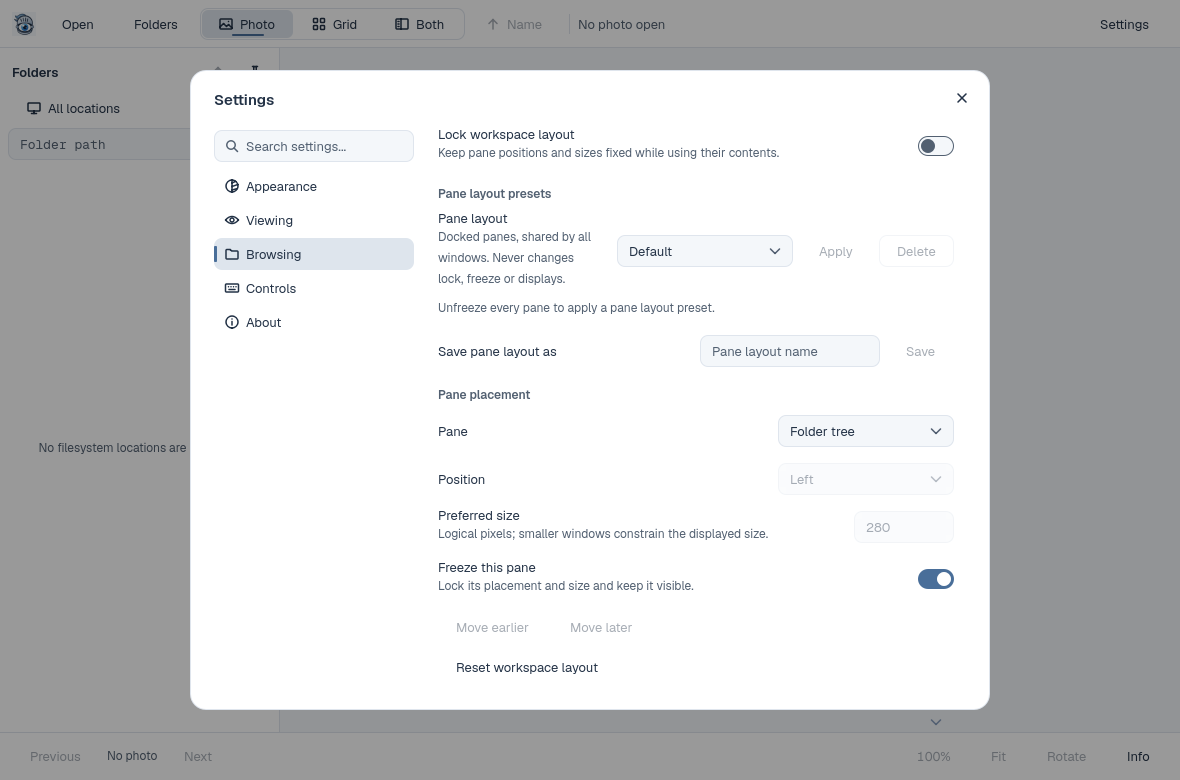
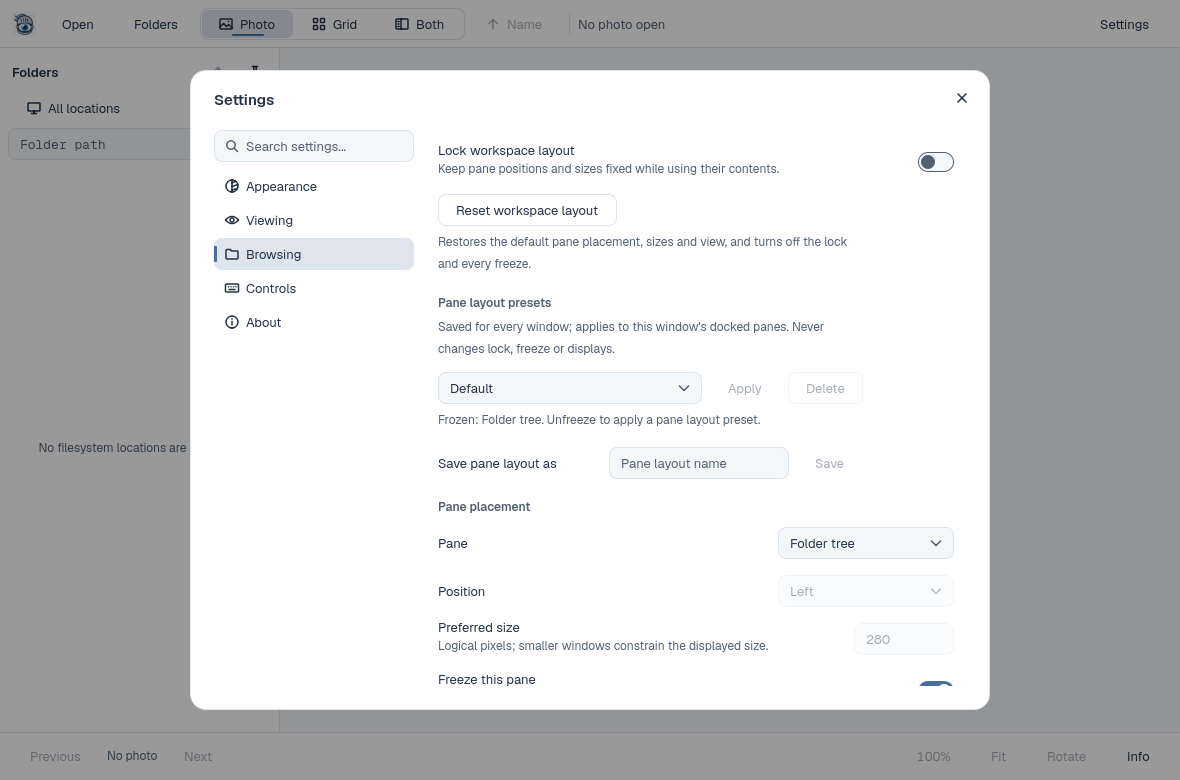
docs(handoff): STACK-F049-PRESETS review round 1 fixes, evidence and design note
Settings captures (dark/light, 560/1180 px, plus one while saving),
fail-before/pass-after output, targeted, repeated and full-suite results.

Claude-Session: https://claude.ai/code/session_01Pz8behqu31ymcicmpisLUg

diff --git a/docs/handoff/STACK-F049-PRESETS-HANDOFF.md b/docs/handoff/STACK-F049-PRESETS-HANDOFF.md
@@ -7,7 +7,7 @@ Contract: docs/handoff/LEAD-WRAPUP-2026-10-22.md (first frozen resolution) and L
 | --- | --- |
 | Branch | `claude/stack-f049-presets` |
 | Base SHA | `afeac1a5d5b1da088d7b35447a933a2f64400f49` (`origin/main`, "chore(lead): freeze Phase 0 cycle 1 contracts") |
-| Tip SHA | the commit that updates this handoff; code tip: the preceding test-fix commit (review diff: `git diff afeac1a <tip>`) |
+| Tip SHA | the commit that updates this handoff. Review round 1 fixes: see "Review round 1 fixes" below (re-review diff: `git diff 4770e99 <tip>`, after the `origin/main` merge `380cf7b`) |
 | Review | fresh session, `docs/verification/STACK-F049-PRESETS-REVIEW.md` on `claude/review-stack-f049-presets` |
 
 ## What changed, by contract clause
@@ -17,7 +17,7 @@ Contract: docs/handoff/LEAD-WRAPUP-2026-10-22.md (first frozen resolution) and L
    - `savePreset` stores no `frozen` flags (the old code stored them and only stripped them on apply) and never `locked`.
    - `persistWhole()` no longer calls `updateSettings` directly. It goes through the layout's own value-owned `saveWithRetry` channel (`layout/<slot>/_preset/...`), the same one `MonitorCustomization` cancels and reloads. A busy file now queues the write after earlier edits and shows "Saving layout preferences…". It used to fail silently while the session showed the preset.
    - `MonitorCustomization::commit`: when a dock transaction finishes after pane edits made while it was saving (a layout preset, for example), the committed transaction still wins, because those pending writes are cancelled and the saved dock restored. The coordinator now reports this ("Pane layout changes made while saving were replaced by the saved monitor layout.") instead of dropping the edit silently. If the pane write lands first, the coordinator refuses as before ("The pane layout changed while saving…"). Either way the runtime equals `layouts[slot]` afterwards; the test checks both orders.
-   - Settings disables Apply, the lock switch and the freeze switch while a display transaction is saving (`monitorCustomization.saving`). Apply shows the reason in visible text (and as `Accessible.description`): locked, frozen, or saving.
+   - Settings disables Apply, the lock switch, the freeze switch and Reset while a display transaction is saving (`monitorCustomization.saving`). Each shows its own reason in visible text: Apply below the preset row (and as `Accessible.description`: locked, frozen with the pane names, or saving), the switches in their descriptions, Reset in its note. The `layout-preset-next` command waits the same way (round 1).
 2. **Per-slot placement isolation.** Applying a preset touches only `layouts[<this slot>]`. Other slots' layouts, lock and freeze, and the coordinator's per-slot routes and presets are unchanged. A deferred preset write that completes after the window changed slot reports nothing into the new slot.
 3. **`snapshotExtras_` and unknown or newer data survive `persistWhole()`.**
    - Known fields merge into the stored layout. Unknown root, pane and center fields and unknown pane ids stay.
@@ -26,14 +26,14 @@ Contract: docs/handoff/LEAD-WRAPUP-2026-10-22.md (first frozen resolution) and L
    - At runtime, unknown pane and center fields from a restored snapshot survive an apply.
    - Preset records: a newer-version record is never overwritten ("A newer version of Glancelot saved…") and is not applied. Replacing a current record keeps its unknown fields. A non-object `layoutPresets` value is preserved: saving is refused with feedback, and delete finds nothing.
 4. **Distinct names and scopes.**
-   - Settings > Browsing shows a "Pane layout presets" heading and a "Pane layout" row ("Docked panes, shared by all windows. Never changes lock, freeze or displays."), then "Save pane layout as" and a separate "Pane placement" heading. The display workspace presets stay behind "Displays and workspaces…" (per window slot).
-   - Names cannot collide, case-insensitively, in either direction. `PaneLayout::savePreset` refuses a name used by a display workspace preset in any slot. `MonitorCustomization::savePreset`/`renamePreset` refuse a pane layout preset name, built-ins included.
-   - MonitorSettings.qml is outside this packet's grant, so its heading is renamed in STACK-F054-COVERAGE ("Display workspace presets for this window", plus a sentence on scope).
+   - Settings > Browsing shows a "Pane layout presets" heading, the scope sentence "Saved for every window; applies to this window's docked panes. Never changes lock, freeze or displays.", the preset controls stacked under it, then "Save pane layout as" and a separate "Pane placement" heading (round 1 layout). The display workspace presets stay behind "Displays and workspaces…" (per window slot).
+   - New names cannot collide, case-insensitively, in either direction. `PaneLayout::savePreset` refuses a new name used by a display workspace preset in any slot, including one still queued in this process. `MonitorCustomization::savePreset`/`renamePreset` refuse a new or changed name that is a pane layout preset name, built-ins included, and the queued write refuses it again if another process saved that pane layout preset meanwhile. An unchanged legacy name can still be updated (round 1).
+   - MonitorSettings.qml (lead decision, round 1: this packet owns the wording; F054 does not touch it): the heading is "Display workspace presets for this window", and the note starts "Saved for this window only." and says pane layout presets in Settings are saved for every window.
 5. **Navigator follows `paneAvailable("preview")`.** In `ui/Main.qml`, the zoom navigator's `visible` uses `paneAvailable("preview")`, and its `parent` follows the detached preview host's `paneContent`. It shows in, and moves with, a detached preview window and returns on re-dock.
 
 ## Files
 
-`src/app/pane_layout.cpp`, `src/app/monitor_customization.cpp`, `ui/SettingsDialog.qml` (Browsing page: preset block and the two switches), `tests/pane_layout_tests.cpp`, `tests/monitor_customization_tests.cpp`, new `tests/layout_presets_ui_tests.cpp`, `docs/verification/STACK-F049-PRESETS/*.png`.
+`src/app/pane_layout.cpp`, `src/app/monitor_customization.cpp`, `ui/SettingsDialog.qml` (Browsing page: workspace layout group, preset block and the two switches), `ui/MonitorSettings.qml` (presets heading and scope note only, round 1), `ui/Main.qml` (navigator block; `layout-preset-next` block and its outcome watcher, round 1), `tests/pane_layout_tests.cpp`, `tests/monitor_customization_tests.cpp`, new `tests/layout_presets_ui_tests.cpp`, `docs/verification/STACK-F049-PRESETS/*.png`.
 
 The lead should look at two edits outside the packet's file list. Each is in its own commit so it can be taken or dropped:
 - `9c28226` changes `ui/Main.qml`: the navigator block only (2 lines and a comment, around old line 1293). It is far from EN-06's routing region (655–867) and from the merge leftovers at 1327 and 2051. The contract's navigator clause cannot be met without it.
@@ -173,10 +173,189 @@ The ui-design-skills (application-interface-design, layout, spacing, typography,
 - A disabled action always has its reason beside it in muted text, not only a greyed button. The description is two short sentences that fit three lines at 560 px.
 - The compact (560 px) capture has no horizontal overflow; controls keep their widths and the description wraps.
 - Keyboard and screen-reader names: the combo is "Pane layout preset" and the field "Name for the new pane layout preset". Apply's `Accessible.description` carries the blocked reason.
-- Open item for the reviewer: the preset row's description column wraps to three or four lines at wide sizes, because the trailing combo and two buttons take the width. It is acceptable, but a stacked layout (controls under the label) would read better if the row grows.
+- (Superseded by round 1: the controls now stack under the text.) Open item for the reviewer: the preset row's description column wraps to three or four lines at wide sizes, because the trailing combo and two buttons take the width. It is acceptable, but a stacked layout (controls under the label) would read better if the row grows.
 
 ## Unverified
 
 - The Windows gate and Docker were not run (no Docker in this session); the authoritative `lead-windows-gate` decides.
 - No physical or multi-monitor hardware: the detached-preview navigator test uses the offscreen platform's single virtual screen.
 - No native RHI rendering.
+
+## Review round 1 fixes (fix session S10, October 23, 2026)
+
+Written for: the lead and the next fresh reviewer. The original implementer was unavailable; fix session S10 made these changes on the same branch.
+
+| | |
+| --- | --- |
+| Starting tip | `4770e99`, then `git merge --no-edit origin/main` (`f325ef6`) as merge commit `380cf7b` (no conflicts) |
+| Code commit | `0d5afb6` "STACK-F049-PRESETS: review round 1 fixes" |
+| Tip | the commit that adds this section (evidence and handoff only) |
+| Re-review diff | `git diff 380cf7b <tip>` for round 1 only; `git diff afeac1a <tip>` for the whole packet, which also includes main's changes since `afeac1a` |
+
+### What changed, by finding
+
+1. **Refusals are checked against disk** (`tests/pane_layout_tests.cpp`, `presetsObeyLockAndFreezeAuthority`). The test reads `layouts` right before each refused apply (locked, then frozen) and `QCOMPARE`s it with what is on disk afterwards. `Q_UNUSED(layoutBefore)` is gone.
+2. **Only a new or changed name is refused.**
+   - `PaneLayout::savePreset` skips the display-name check when `layoutPresets` already holds that exact name, because that is an update.
+   - `MonitorCustomization::savePreset` and `renamePreset` use `layoutPresetNameTaken(id, name)`, which skips the check when the record keeps its current name. "Update snapshot" (`ui/MonitorSettings.qml`) therefore works again for a display preset named "Review", "Default", "Browse", or the name of a user pane layout preset, from before this packet.
+   - The write-time check (item 5) skips a name that is unchanged from the stored record.
+3. **Scope copy** (`ui/SettingsDialog.qml`): "Saved for every window; applies to this window's docked panes. Never changes lock, freeze or displays." The `MonitorSettings.qml` note now ends the same way in reverse: "…pane layout presets in Settings are saved for every window."
+4. **The outcome shows in the main window.**
+   - `layout-preset-next` (`ui/Main.qml`) now waits while `monitorCustomization.saving`, as Settings' Apply does. It shows "Display preferences are saving. Apply the preset when they finish." and applies nothing. That removes the "Layout: X, then a silent revert" path: a coordinator transaction can only supersede a preset if the transaction started first and was still pending when the preset applied, and the command no longer applies during that window.
+   - A preset whose write had to wait (busy file) now reports how it ended in the main window. `presetSavingFeedback` holds the "Saving layout preferences…" text, and a `Connections` on `paneLayout` shows the next different, non-empty `paneLayout.feedback` (for example "Layout changed for this session; settings could not be saved.") as the split message, then disarms.
+   - `monitor_customization.cpp`: the "replaced" message is composed last and leads. Any other note (the presentation-session note, or the `committed()` or `applyOutput()` text) follows it. Before this fix, the "newer presentation session" branch overwrote it.
+5. **Name checks include queued saves.**
+   - In this process, `PaneLayout::savePreset` overlays the coordinator's pending settings edits (`settings_detail::overlayPendingSettings`) before it checks display preset names. The coordinator registers itself on the layout through a dynamic property, `_glancelotDisplayPresetQueue`, because no shared header changes. The property is cleared when the coordinator is destroyed.
+   - Across processes, the coordinator's queued write re-checks `layoutPresets` on disk when it finally runs. If another window saved a pane layout preset with that new name meanwhile, the write is refused with "A pane layout preset already uses that name. Choose another name." So no collision reaches disk in either order.
+   - The coordinator's edit now clears `*refused` at its start, so running it as a read overlay leaves no stale refusal behind.
+
+Design review (see the note below):
+- The preset controls stack under their text at a measure of 70 average characters.
+- The repeated "Pane layout" row label is gone.
+- The freeze reason names the frozen panes ("Frozen: Folder tree. Unfreeze to apply a pane layout preset.").
+- The lock and freeze switches give their own reason while saving ("Unavailable while display preferences are saving."). The freeze switch also says "Unlock the workspace layout to freeze or unfreeze a pane." when the layout is locked.
+- "Reset workspace layout" moved out of "Pane placement" to sit after the lock switch, with a note saying it also turns off the lock and every freeze. It is disabled while saving, like the lock switch.
+
+Lead decisions applied:
+- The `9c28226` navigator edit is kept.
+- Main.qml changes in round 1 are limited to the `layout-preset-next` block, one property and one `Connections` next to `splitMessageTimer`.
+- `aa2a9a4` (provisional CMake) is untouched, for the lead to re-land.
+- MonitorSettings wording: this packet now owns the heading and scope note only (`objectName`s `monitorPresetHeading`, `monitorPresetScope`, as on the F054 branch). Expect a textual conflict with `claude/stack-f054-coverage` on those two lines, and resolve it to this packet's text.
+- F054 copy: I checked every `ui/` string change in `git diff afeac1a` and found no pure `qsTr` wrap of a string this packet did not introduce or rename, so there was nothing to remove. The existing `"Layout: "` split message in Main.qml stays unwrapped for F054.
+
+### Tests added or changed
+
+- `pane_layout_tests`:
+  - `presetsObeyLockAndFreezeAuthority`: disk comparisons after both refusals.
+  - New `legacyCollidingPresetNameStaysUpdatable`: a legacy "Studio" pane layout preset beside a display preset "Studio" updates and keeps its unknown field; "STUDIO" is still refused and not written.
+- `monitor_customization_tests`:
+  - `legacyCollidingDisplayPresetNameStaysUpdatable`: display presets renamed on disk to "Review" and "studio" (with a pane layout preset "Studio"). Update snapshot and rename-to-self succeed with no feedback. Renaming to "Browse" or "STUDIO" is refused, and the stored names stay as they were.
+  - `layoutPresetNameChecksIncludeQueuedSaves`: a display preset save queued behind a busy file blocks the same pane layout name at once. A pane layout preset written by "another process" while a display save waits makes that queued save fail with feedback, and only the earlier display preset is stored.
+  - `supersededFeedbackSurvivesNewPresentationSession`: a freeze transaction queued, then a preset, then a new presentation session. When the transaction supersedes the preset, the feedback starts with "replaced" and keeps the session note; when the preset lands first, the transaction's refusal is shown. It logs which order ran (here, always "superseded").
+- `layout_presets_ui_tests`:
+  - `settingsPresetRowObeysCanonicalLockAndFreeze`: the freeze reason names "Folder tree". While saving, the lock and freeze switches and Reset are disabled and the switch descriptions say why; afterwards they are enabled again.
+  - New `settingsPresetBlockReadsAtEveryWidth` (560 and 1180 px):
+    - the exact scope copy;
+    - at least 40 characters per line and a width no wider than the measure;
+    - the controls sit below the text;
+    - Reset sits above the preset heading;
+    - the MonitorSettings heading and note text.
+  - New `presetCommandWaitsForDisplaySaveAndReportsOutcome`:
+    - two `layout-preset-next` presses while a display save is pending apply nothing, the cursor stays at -1 and the split message says why;
+    - with the file held busy, a press shows "Layout: Review" and then, about four seconds later, "…settings could not be saved."
+  - `settingsPresetEvidence` now frames the lock, Reset and preset block, and adds one capture while saving.
+
+### Fail before, pass after
+
+The new tests were built against round 1's tests with `src/` and `ui/` at `380cf7b` (`git stash push -- src ui`):
+
+```
+$ QT_QPA_PLATFORM=offscreen ./pane_layout_tests
+FAIL!  : PaneLayoutTests::legacyCollidingPresetNameStaysUpdatable() 'model.savePreset("Studio")' returned FALSE. (A display workspace preset already uses that name. Choose another name.)
+Totals: 17 passed, 1 failed, 0 skipped, 0 blacklisted, 506ms
+$ QT_QPA_PLATFORM=offscreen ./monitor_customization_tests
+FAIL!  : MonitorCustomizationTests::legacyCollidingDisplayPresetNameStaysUpdatable() 'h.customization.savePreset(builtInId,"Review","presentation")' returned FALSE. (A pane layout preset already uses that name. Choose another name.)
+FAIL!  : MonitorCustomizationTests::layoutPresetNameChecksIncludeQueuedSaves() '!h.panes.savePreset("queued")' returned FALSE. ()
+FAIL!  : MonitorCustomizationTests::supersededFeedbackSurvivesNewPresentationSession() 'feedback.startsWith("Pane layout changes made while saving were replaced")&&feedback.contains("newer presentation session")' returned FALSE. (Preferences saved; the newer presentation session was left unchanged.)
+Totals: 33 passed, 3 failed, 0 skipped, 0 blacklisted, 6877ms
+$ QT_QPA_PLATFORM=offscreen QT_QUICK_BACKEND=software ./layout_presets_ui_tests
+FAIL!  : LayoutPresetsUiTests::settingsPresetRowObeysCanonicalLockAndFreeze() 'blocked->property("text").toString().contains("Folder tree")' returned FALSE. (Unfreeze every pane to apply a pane layout preset.)
+FAIL!  : LayoutPresetsUiTests::settingsPresetBlockReadsAtEveryWidth() 'scope' returned FALSE. ()
+FAIL!  : LayoutPresetsUiTests::presetCommandWaitsForDisplaySaveAndReportsOutcome() 'h.window->property("splitMessage").toString().contains("Display preferences are saving")' returned FALSE. ()
+Totals: 3 passed, 3 failed, 1 skipped, 0 blacklisted, 18190ms
+```
+
+Finding 1 (a refusal that writes must fail): `applyPreset` was temporarily mutated to write the preset (`persist("_preset", …)`) before each refusal, one at a time, and then restored:
+
+```
+# write before the lock refusal
+FAIL!  : PaneLayoutTests::presetsObeyLockAndFreezeAuthority() Compared values are not the same
+   Actual   (after["layouts"]): QJsonValue(object, QJsonObject({"1":{"center":{},"locked":true,"panes":{"filmstrip":{"extent":112,"order":0,"region":"bottom","visible":true}, … "topbar":{"extent":48,"order":0,"region":"top","visible":false}, …},"version":1}}))
+   Expected (layoutBefore)    : QJsonValue(object, QJsonObject({"1":{"locked":true,"panes":{"tree":{"frozen":true,"visible":true}},"version":1}}))
+   Loc: [/home/user/glancelot/tests/pane_layout_tests.cpp(295)]
+Totals: 2 passed, 1 failed, 0 skipped, 0 blacklisted, 10ms
+# write before the freeze refusal
+FAIL!  : PaneLayoutTests::presetsObeyLockAndFreezeAuthority() Compared values are not the same
+   Loc: [/home/user/glancelot/tests/pane_layout_tests.cpp(299)]
+Totals: 2 passed, 1 failed, 0 skipped, 0 blacklisted, 7ms
+```
+
+After the fixes (`0d5afb6`), targeted:
+
+```
+$ QT_QPA_PLATFORM=offscreen ctest --test-dir build-claude-stack-f049-presets -R "pane_layout|monitor_customization|layout_presets_ui|ui_settings|input_ui" --output-on-failure
+1/6 Test #10: pane_layout ......................   Passed    0.50 sec
+2/6 Test #13: input_ui .........................***Failed   68.40 sec
+FAIL!  : InputUiTests::treeRowAndPathBarMenusOpenAndMatch() 'menuOpen(rowMenu)' returned FALSE. ()
+3/6 Test #22: ui_settings ......................   Passed    0.60 sec
+4/6 Test #42: monitor_customization ............   Passed    7.29 sec
+5/6 Test #43: monitor_customization_ui .........   Passed   15.62 sec
+6/6 Test #44: layout_presets_ui ................   Passed    8.37 sec
+83% tests passed, 1 tests failed out of 6
+Total Test time (real) = 100.79 sec
+```
+
+`input_ui`'s one failure is the documented baseline (`treeRowAndPathBarMenusOpenAndMatch`). Its preset case passed: `PASS   : InputUiTests::layoutPresetsFromCommandAndSettings()`, `Totals: 31 passed, 1 failed, 1 skipped`.
+
+The two timer-ordered suites, repeated:
+
+```
+$ QT_QPA_PLATFORM=offscreen ctest --test-dir build-claude-stack-f049-presets -R "^(monitor_customization|layout_presets_ui)$" --repeat until-fail:10 --output-on-failure
+    Test #42: monitor_customization ............   Passed    7.09 sec   (runs 1-9: 6.97-7.09 sec, all Passed)
+1/2 Test #42: monitor_customization ............   Passed    6.98 sec
+    Test #44: layout_presets_ui ................   Passed    8.16 sec   (runs 1-9: 8.08-8.30 sec, all Passed)
+2/2 Test #44: layout_presets_ui ................   Passed    8.21 sec
+100% tests passed, 0 tests failed out of 2
+Total Test time (real) = 152.14 sec
+```
+
+Order log from one direct run: `order 0: transaction superseded the preset`, `order 1: preset landed first; transaction refused`, and `transaction superseded the preset: Pane layout changes made while saving were replaced by the saved monitor layout. Preferences saved; the newer presentation session was left unchanged.`
+
+Full offscreen suite, once, at `0d5afb6`:
+
+```
+$ QT_QPA_PLATFORM=offscreen ctest --test-dir build-claude-stack-f049-presets --output-on-failure
+10/44 Test #10: pane_layout ......................   Passed    0.52 sec
+12/44 Test #12: folder_grid ......................***Failed  158.72 sec
+FAIL!  : GridUiTests::externalRenameAndDeleteRefreshKeepSelection() Compared lists have different sizes.
+13/44 Test #13: input_ui .........................***Failed   68.35 sec
+FAIL!  : InputUiTests::treeRowAndPathBarMenusOpenAndMatch() 'menuOpen(rowMenu)' returned FALSE. ()
+16/44 Test #16: directory_model ..................***Failed    4.93 sec
+FAIL!  : DirectoryModelTests::selectionSurvivesRelistSortAndDropsRemovedKeys() Compared lists have different sizes.
+22/44 Test #22: ui_settings ......................   Passed    0.53 sec
+42/44 Test #42: monitor_customization ............   Passed    6.96 sec
+43/44 Test #43: monitor_customization_ui .........   Passed   15.21 sec
+44/44 Test #44: layout_presets_ui ................   Passed    8.20 sec
+93% tests passed, 3 tests failed out of 44
+Total Test time (real) = 449.17 sec
+```
+
+The other 37 tests passed. The three failures are exactly the baseline functions that docs/handoff/PHASE0-CYCLE1-2026-10-22.md lists for the conda-forge Qt. `folder_grid` and `input_ui` are budget tests; the authoritative gate decides.
+
+### Environment
+
+Same as the original handoff: Ubuntu 24.04, 4 vCPU, offscreen platform.
+- aqt failed with a proxy 403 on `download.qt.io`.
+- `micro.mamba.pm` is also blocked here, so `qt6-main 6.8.3 hb82b983_5` came from conda-forge through py-rattler into `/opt/qtconda`.
+- I added `libgl1-mesa-dev libegl-dev` with apt, because Qt6Gui needs WrapOpenGL.
+- Docker and the Windows gate were not run. The hosted `Build and test` run for this push is the first MSVC check of round 1.
+
+### Design-review note (round 1)
+
+The ui-design-skills (application-interface-design, layout, spacing, typography, design-review) are **not available in this cloud session** either. I applied their principles from AGENTS.md and the reviewer's notes, using only existing theme tokens and components. Captures are in `docs/verification/STACK-F049-PRESETS/`:
+- `settings-presets-{dark,light}-{560,1180}.png`, showing a frozen tree pane;
+- `settings-presets-saving-dark-1180.png`, taken while a display save is pending.
+
+- **Measure.** The scope sentence, the blocked reason, the Reset note and the preset controls are capped at `measure`, 70 average characters of `Theme.textSmall` measured with `FontMetrics`, so the cap follows text scaling. In the captures the scope sentence's first line breaks after 68 characters at both 560 and 1180 px (two lines in all), not about 20. The test asserts at least 40 characters per line and a width no wider than the measure.
+- **Stacking and labels.** The combo, Apply and Delete sit on one row under the text, and the combo takes the spare width. The section heading "Pane layout presets" names the block, so the row label "Pane layout" was dropped.
+- **Grouping.** "Workspace layout" holds the lock and the Reset that also clears it. "Pane layout presets" holds the presets. "Pane placement" now holds only per-pane controls.
+- **Disabled states explain themselves.**
+  - Apply: locked, frozen with the pane names, or saving.
+  - Lock switch: saving.
+  - Freeze switch: saving, or locked.
+  - Reset: saving.
+  - The reason replaces the description in place, so the layout does not jump, and it reaches assistive technology through each control's `Accessible.description`.
+- **Scope words agree across both dialogs.** Settings says "Saved for every window"; Displays and workspaces says "Saved for this window only".
+- **Open items for the reviewer:**
+  - Preset save and apply refusals still show in the general `paneLayout.feedback` note at the end of "Pane placement", below the fold at 560 px. A note under the save field would be closer. I left it out to keep the round small.
+  - "Save pane layout as" keeps the side-by-side `SettingRow`, because its label is short and has no description.
